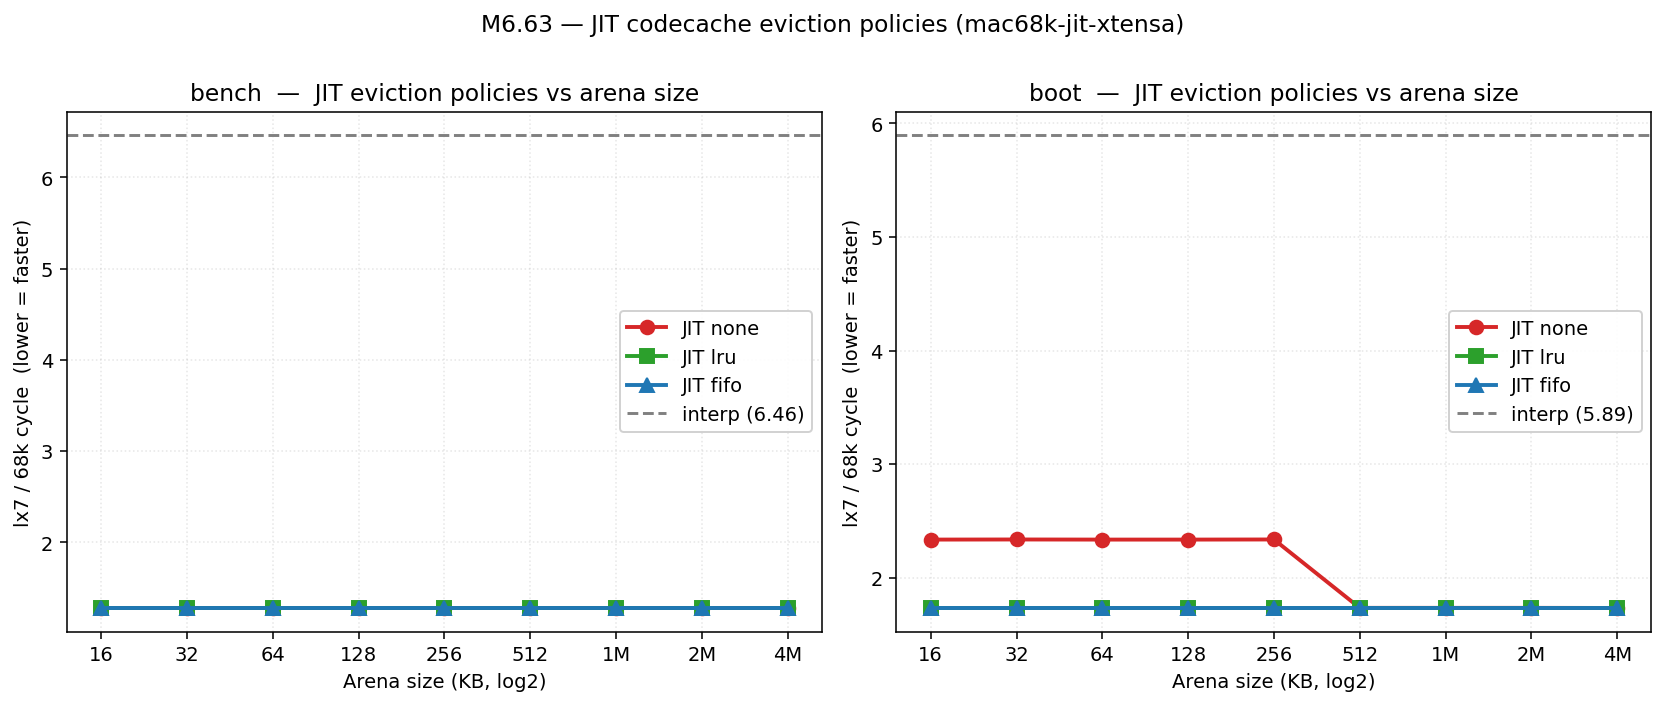
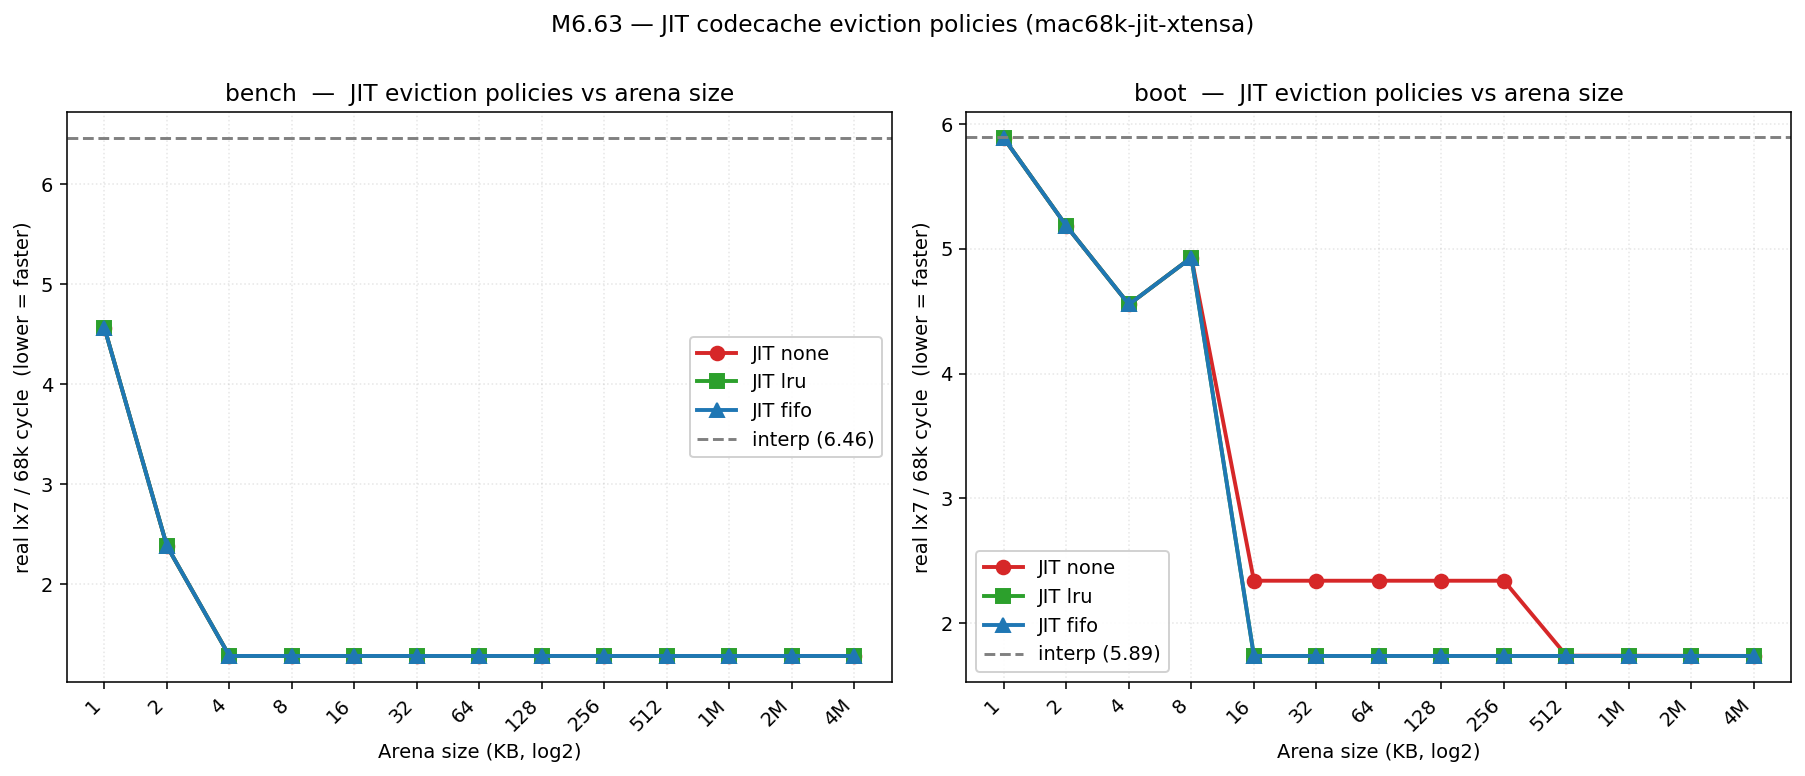
M6.63: extend arena sweep down to 1 KB; plot uses real_lx7_per_cyc
The original sweep stopped at 16 KB. Extending to 1/2/4/8 KB shows
the floor where the JIT degrades to interp speed because individual
blocks can't fit in the arena (codecache_alloc returns NULL ->
dispatcher's interp_fallback path single-steps).

At 1 KB all three policies match interp baseline (5.89 on boot).
At 8 KB boot is non-monotonic — 4.93 vs 4.56 at 4 KB — the JIT
thrashes trying to compile blocks that get evicted before reuse.
The eviction-policy difference only emerges from 16 KB onward,
where bump's hard cliff (2.34) diverges from LRU/FIFO (1.74).

Switched plot Y-axis to real_lx7_per_cyc instead of the JIT-only
lx7_per_cyc, so the curve is meaningful in the small-arena regime
where most ops bypass JIT and go through m68k_step directly.

diff --git a/scripts/evict_sweep_plot.py b/scripts/evict_sweep_plot.py
@@ -41,12 +41,17 @@ def series(workload, policy):
 
 interp = {r["workload"]: r["lx7"] for r in rows if r["policy"] == "interp"}
 
-fig, axes = plt.subplots(1, 2, figsize=(12, 5), sharey=False)
+def series_real(workload, policy):
+    pts = sorted([r for r in rows if r["workload"] == workload and r["policy"] == policy],
+                 key=lambda r: r["kb"])
+    return [r["kb"] for r in pts], [r["real"] for r in pts]
+
+fig, axes = plt.subplots(1, 2, figsize=(13, 5.5), sharey=False)
 for ax, workload in zip(axes, ["bench", "boot"]):
     for policy, color, marker in [("none", "#d62728", "o"),
                                   ("lru",  "#2ca02c", "s"),
                                   ("fifo", "#1f77b4", "^")]:
-        xs, ys = series(workload, policy)
+        xs, ys = series_real(workload, policy)
         if xs:
             ax.plot(xs, ys, color=color, marker=marker, linewidth=2,
                     label=f"JIT {policy}", markersize=7)
@@ -54,13 +59,12 @@ for ax, workload in zip(axes, ["bench", "boot"]):
         ax.axhline(interp[workload], color="grey", linestyle="--", linewidth=1.5,
                    label=f"interp ({interp[workload]:.2f})")
     ax.set_xscale("log", base=2)
-    # Set both x-ticks (powers of 2 KB)
     sizes = sorted({r["kb"] for r in rows if r["workload"] == workload and r["kb"] > 0})
     ax.set_xticks(sizes)
     ax.set_xticklabels([f"{s}" if s < 1024 else f"{s//1024}M" for s in sizes],
-                       rotation=0)
+                       rotation=45, ha="right")
     ax.set_xlabel("Arena size (KB, log2)")
-    ax.set_ylabel("lx7 / 68k cycle  (lower = faster)")
+    ax.set_ylabel("real lx7 / 68k cycle  (lower = faster)")
     ax.set_title(f"{workload}  —  JIT eviction policies vs arena size")
     ax.grid(True, alpha=0.3, linestyle=":")
     ax.legend(loc="best", framealpha=0.9)